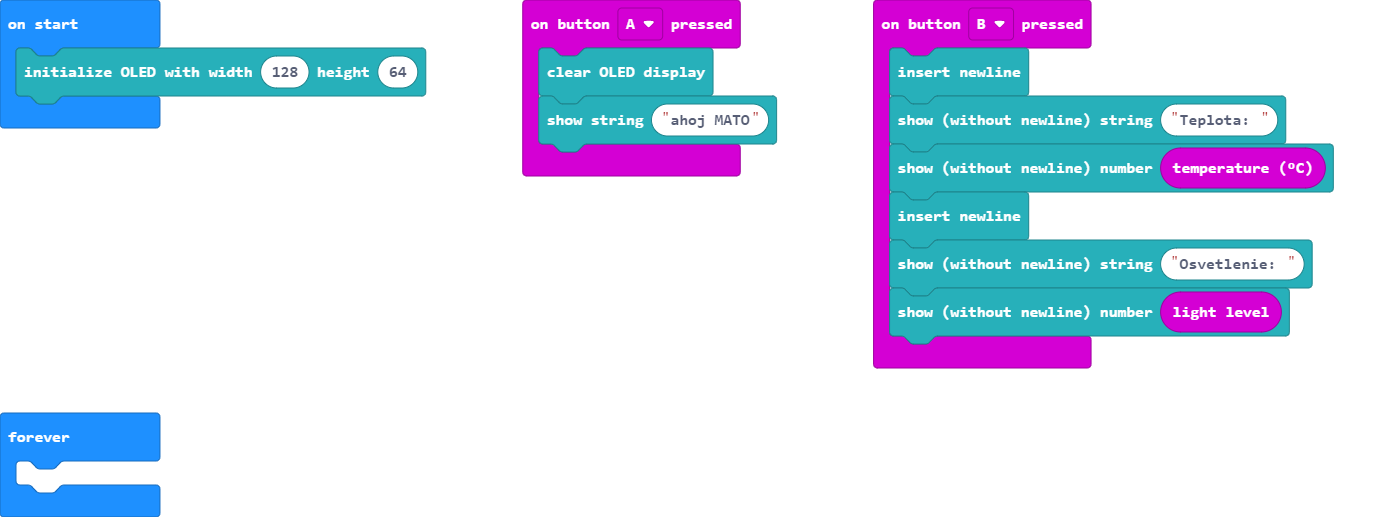
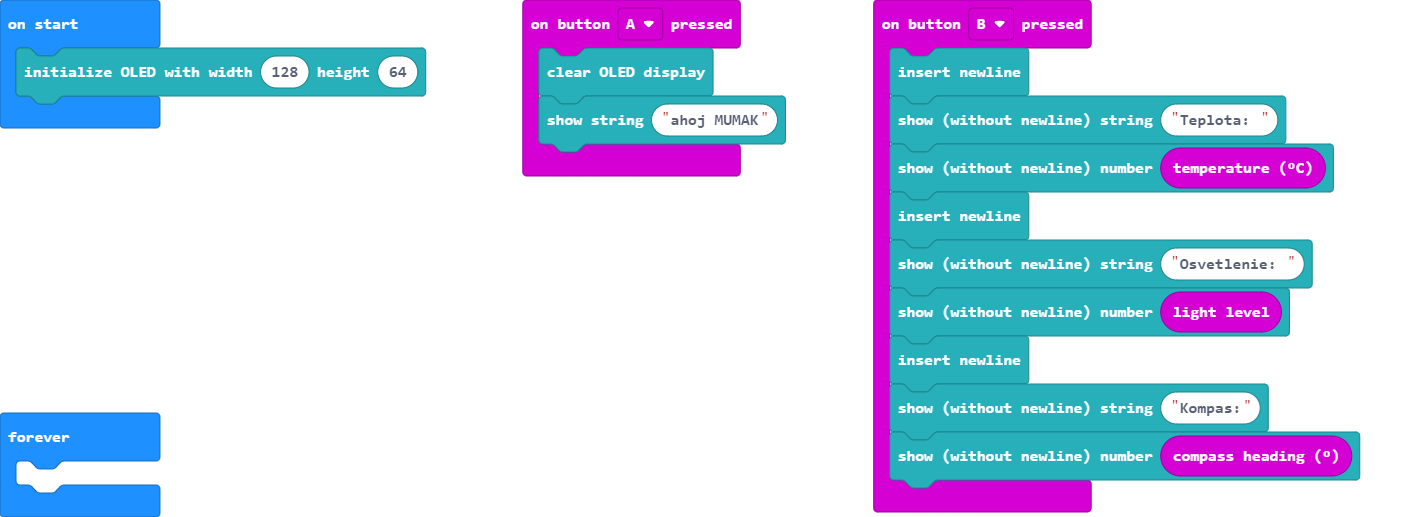
Update main.blocks, main.ts

diff --git a/main.ts b/main.ts
@@ -1,6 +1,6 @@
 input.onButtonPressed(Button.A, function () {
     OLED.clear()
-    OLED.writeStringNewLine("ahoj MATO")
+    OLED.writeStringNewLine("ahoj MUMAK")
 })
 input.onButtonPressed(Button.B, function () {
     OLED.newLine()
@@ -9,6 +9,9 @@ input.onButtonPressed(Button.B, function () {
     OLED.newLine()
     OLED.writeString("Osvetlenie: ")
     OLED.writeNum(input.lightLevel())
+    OLED.newLine()
+    OLED.writeString("Kompas:")
+    OLED.writeNum(input.compassHeading())
 })
 OLED.init(128, 64)
 basic.forever(function () {
